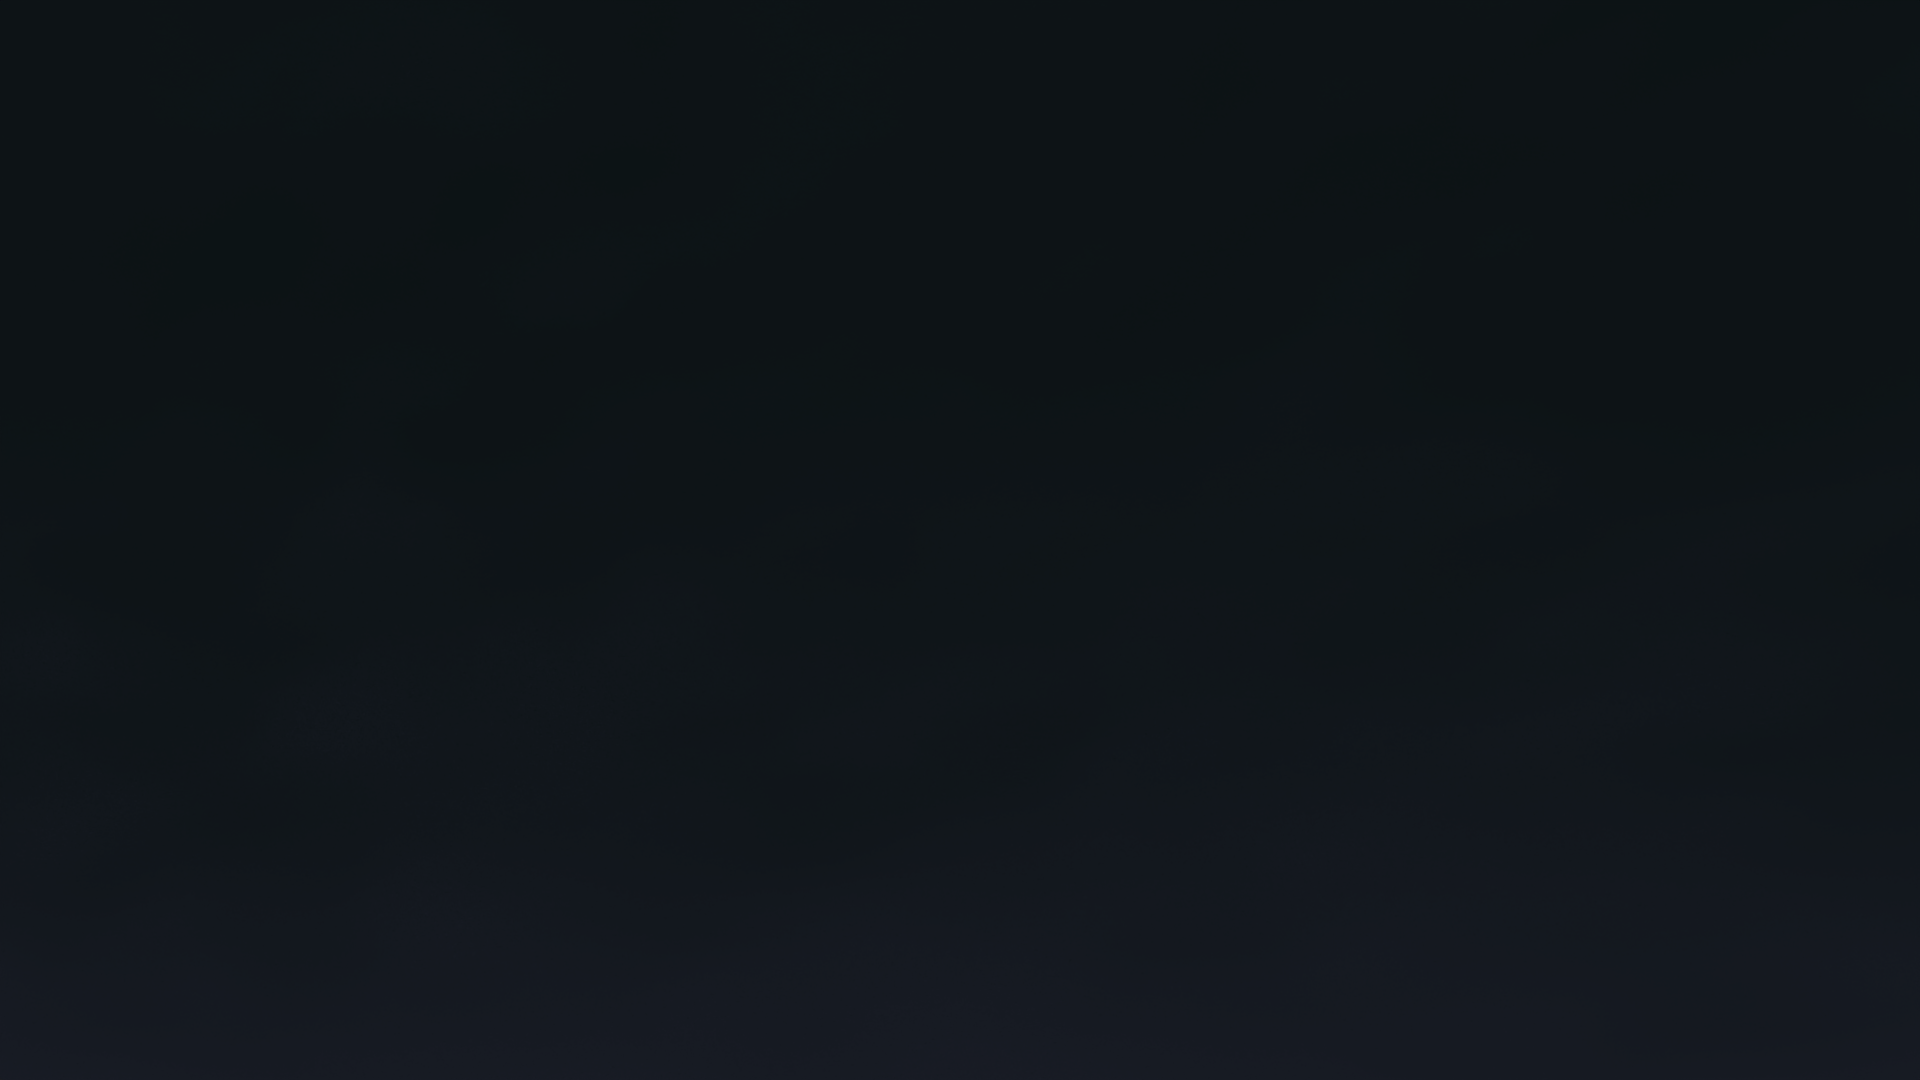
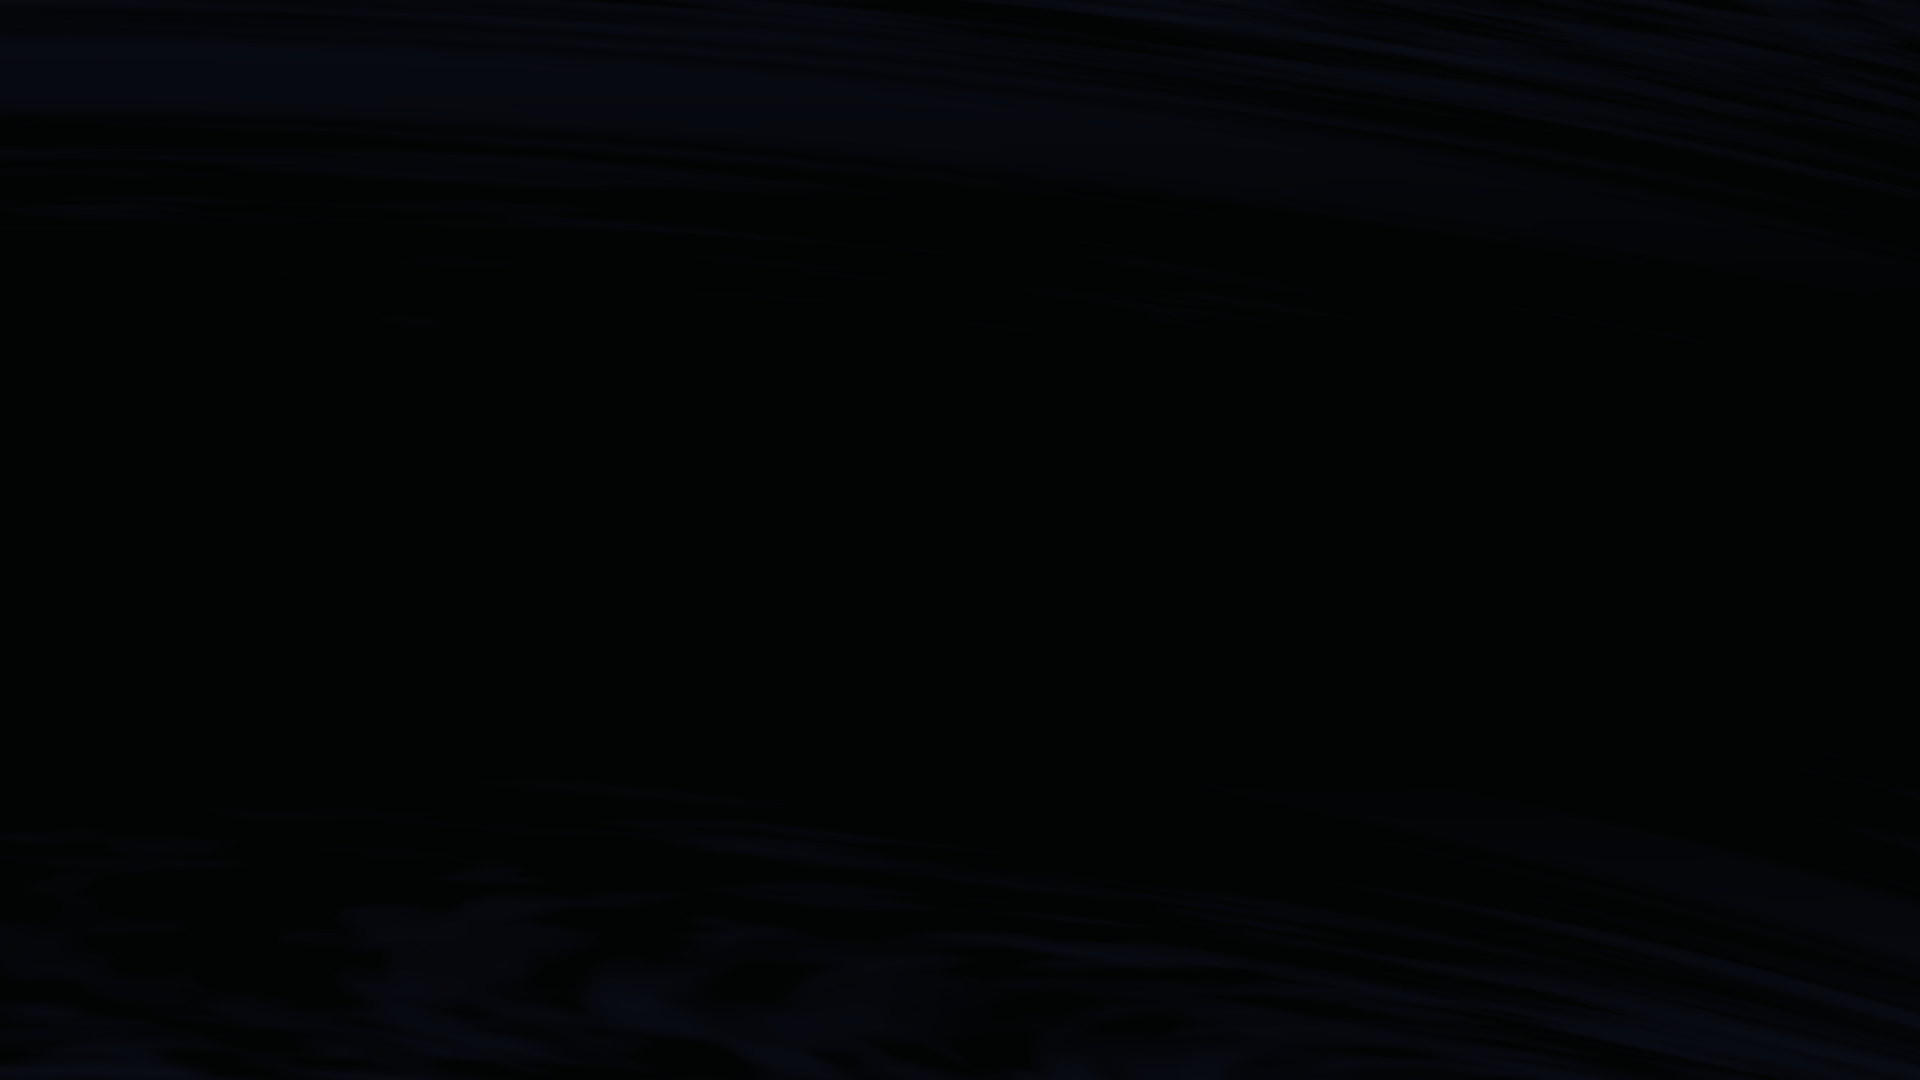
added a star sprite and new space texture to the posts page

Changed region(s): [[0.0, 0.6722, 1.0, 1.0], [0.1562, 0.6722, 0.1875, 0.7028]]

diff --git a/components/backgrounds/PostsPageBackground/PostsPageBackground.tsx b/components/backgrounds/PostsPageBackground/PostsPageBackground.tsx
@@ -58,24 +58,22 @@ const PostsPageBackground: FC<{}> = () => {
       scene.background = spaceTexture;
 
       // Stars
+      const starMap = new TextureLoader().load("/threeJs/posts/star.png");
+      const starMaterial = new SpriteMaterial({ map: starMap });
+
       const stars = new Array(0);
       for (let i = 0; i < 250; i++) {
-        const x = (Math.random() - 0.5) * 600;
-        const y = (Math.random() - 0.5) * 300;
-        const z = -100 - Math.random() * 100;
+        const star = new Sprite(starMaterial);
+        const starScale = Math.random() * 4;
 
-        stars.push(x, y, z);
+        star.position.x = (Math.random() - 0.5) * 600;
+        star.position.y = (Math.random() - 0.5) * 300;
+        star.position.z = -100 - Math.random() * 100;
+        star.scale.x = starScale;
+        star.scale.y = starScale;
+
+        scene.add(star);
       }
-
-      const starsGeometry = new BufferGeometry();
-      starsGeometry.setAttribute(
-        "position",
-        new Float32BufferAttribute(stars, 3),
-      );
-      const starsMaterial = new PointsMaterial({ color: 0xffff99 });
-      const starField = new Points(starsGeometry, starsMaterial);
-
-      scene.add(starField);
 
       // Sun
       const sunMap = new TextureLoader().load("/threeJs/posts/sun.png");
